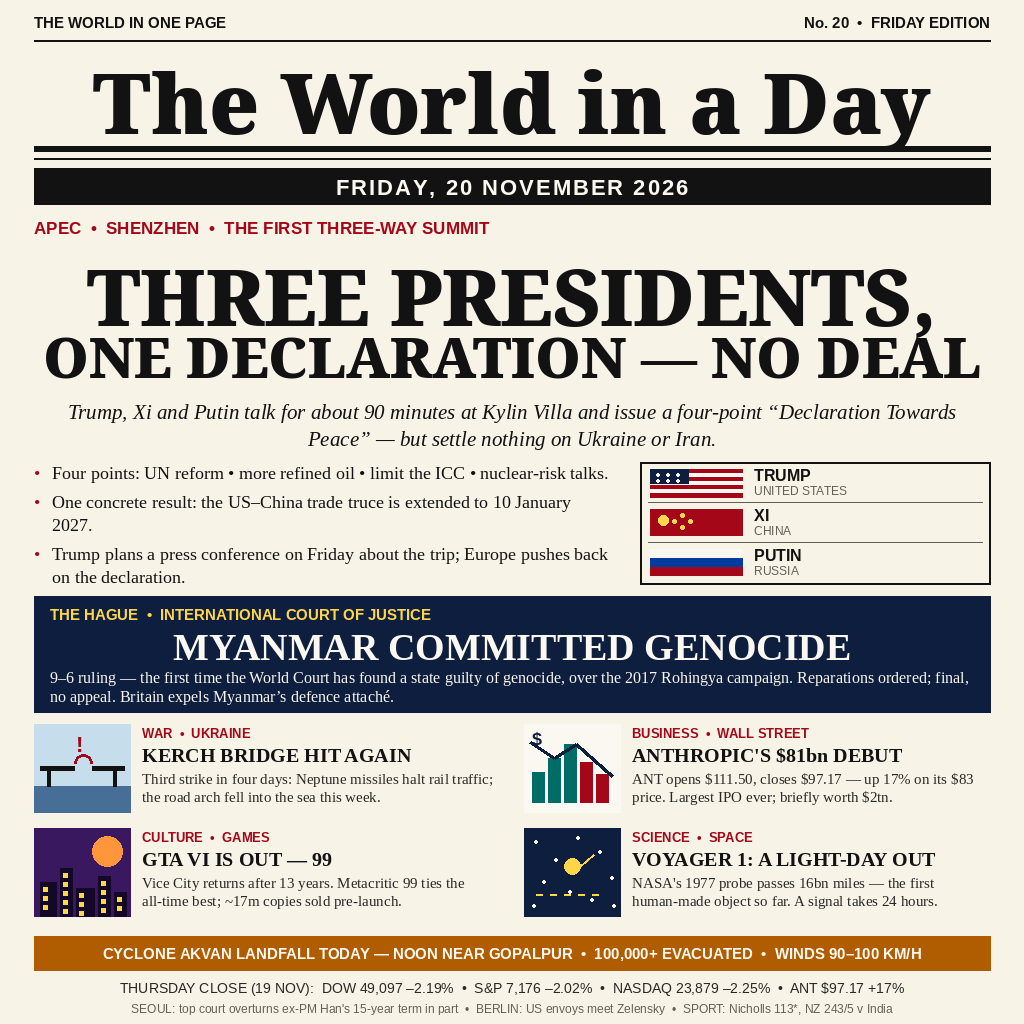
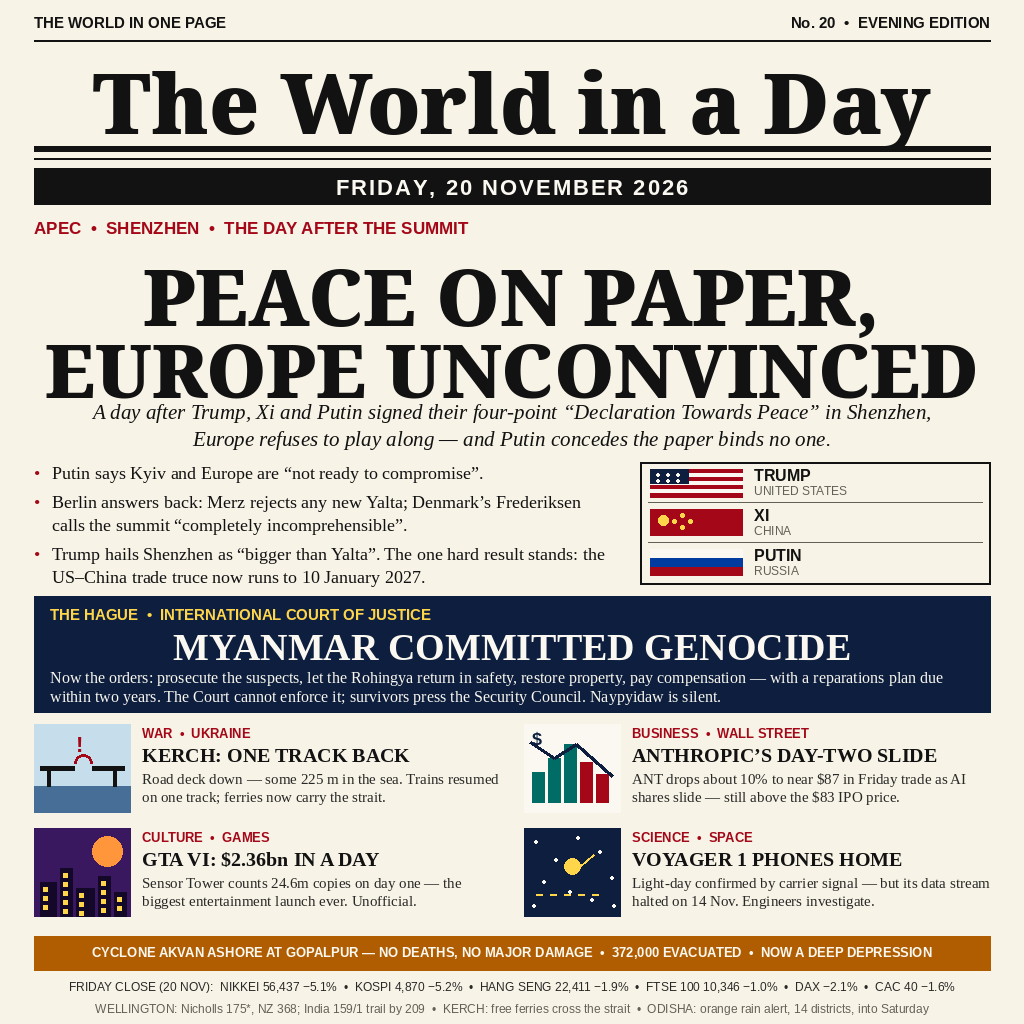
news-image-20261120: evening edition - Friday's outcomes

diff --git a/draw_page.py b/draw_page.py
@@ -1,34 +1,52 @@
 #!/usr/bin/env python3
-"""Draw the front page for Friday 20 November 2026 (build time only).
+"""Draw the EVENING front page for Friday 20 November 2026 (build time).
 
 Reads nothing from the network. Renders entry.png with Pillow and the
 system fonts, 1024x1024, deterministically: same code, same bytes.
 
-Stories, all reported 19-20 Nov 2026 and checked against live news
-searches before drawing:
-  * Shenzhen: Trump, Xi and Putin's first three-way summit ends with a
-    four-point "Declaration Towards Peace" and no deal on Ukraine/Iran;
-    the US-China trade truce is extended to 10 January 2027.
-  * The Hague: the ICJ rules 9-6 that Myanmar committed genocide
-    against the Rohingya in 2017 -- the first state ever found guilty
-    by the court; reparations ordered, no appeal. Britain expels
-    Myanmar's defence attache and seeks an urgent UN Security Council
-    meeting; The Gambia, which brought the case in 2019, hails it.
-  * Kerch Bridge: a third Ukrainian strike in four days (Neptune
-    missiles) halts rail traffic; the road arch collapsed into the
-    sea earlier in the week. Putin rejects a ceasefire.
-  * Anthropic: record $81.3bn IPO; ANT opens $111.50, closes $97.17,
-    up 17% on the $83 price; briefly valued near $2 trillion.
-  * GTA VI: out 19 Nov, Metacritic 99 (ties the all-time best),
-    about 17m copies sold before launch, per Sensor Tower.
-  * Voyager 1: first human-made object one light-day from Earth
-    (18 Nov, ~16bn miles); a signal now takes 24 hours.
-  * Cyclone Akvan: landfall due around noon today near Gopalpur,
-    Odisha; 100,000+ people evacuated; winds 90-100 km/h.
-  * Markets strip uses Thursday 19 Nov's close, labelled as such --
-    Friday's US close has not happened at build time.
-  * Sport brief: NZ 243/5 on day one vs India, Nicholls 113*,
-    Phillips 94*, Bumrah 3-52.
+Evening edition: the morning page previewed the day; this page reports
+how Friday actually ended. Every item below was checked against live
+news reporting on Friday evening (WIB) before drawing:
+
+  * Shenzhen, the day after: the four-point "Declaration Towards Peace"
+    signed by Trump, Xi and Putin draws a European backlash. Merz
+    rejects any new Yalta; Denmark's Frederiksen calls the summit
+    "completely incomprehensible"; Putin concedes the text sets no
+    ambitious goals and that nobody will be forced to comply, and says
+    Europe and Ukraine are "not ready to compromise". Trump calls the
+    summit "bigger than Yalta". The one hard result stands: the
+    US-China trade truce is extended to 10 January 2027.
+  * The Hague, the orders: after the ICJ's 9-6 finding that Myanmar
+    committed genocide against the Rohingya, the Court orders
+    investigations and prosecutions, a safe and dignified return,
+    restitution of property and compensation, with a reparations plan
+    due within two years. The Court has no enforcement arm; survivors'
+    groups press the Security Council; Myanmar has not replied.
+  * Kerch Bridge: satellite imagery shows about 225 m of the road deck
+    in the sea; trains resumed Thursday on one of the two tracks after
+    the third strike in four days; free ferries now cross the strait.
+  * Anthropic, day two: ANT slides about 10% to near $87 in Friday
+    trading as AI stocks sell off (intraday, not a close) -- still
+    above the $83 IPO price, a day after closing at $97.17.
+  * GTA VI: Sensor Tower estimates 24.58m copies and $2.36bn on day
+    one (19 Nov) -- the biggest entertainment launch ever, roughly
+    three times GTA V's first day. Take-Two has released no official
+    figures, so the numbers are labelled estimates.
+  * Voyager 1: the one-light-day milestone was confirmed on Thursday
+    by carrier signal and trajectory, but the probe's science and
+    engineering data stream stopped on 14 Nov; engineers investigate.
+  * Cyclone Akvan: landfall near Gopalpur completed by 11:20 on
+    Friday, winds 70-80 km/h gusting to 90; 372,000 people evacuated;
+    no deaths or major damage reported; the storm weakened to a deep
+    depression, with an orange rain alert for 14 districts.
+  * Markets strip uses FRIDAY 20 Nov closes only, each labelled:
+    Asia (Nikkei 56,436.65 -5.06%, Kospi 4,869.96 -5.21%, Hang Seng
+    22,410.80 -1.89%) and Europe (FTSE 100 10,346.34 -1.02%, DAX
+    -2.13%, CAC 40 -1.6%). Friday's US close happens at 04:00 WIB on
+    Saturday and is deliberately NOT used or invented.
+  * Sport, day two at Wellington: New Zealand 368 (Nicholls 175*,
+    Phillips 118, Bumrah 4-92); India 159/1 at stumps (Jaiswal 85,
+    Rahul 52*), trailing by 209.
 """
 import os
 
@@ -134,7 +152,7 @@ canvas = ImageDraw.Draw(img)
 # ---------------------------------------------------------------- top line
 tiny = load(SANSB, 15)
 canvas.text((M, 14), "THE WORLD IN ONE PAGE", font=tiny, fill=INK)
-right = "No. 20  \u2022  FRIDAY EDITION"
+right = "No. 20  \u2022  EVENING EDITION"
 canvas.text((R - canvas.textlength(right, font=tiny), 14), right,
             font=tiny, fill=INK)
 rule(40, 2)
@@ -151,27 +169,26 @@ centre("FRIDAY, 20 NOVEMBER 2026", load(SANSB, 22), 175, fill=CREAM,
        track=2)
 
 # ---------------------------------------------------------------- lead
-canvas.text((M, 218), "APEC  \u2022  SHENZHEN  \u2022  THE FIRST THREE-WAY SUMMIT",
+canvas.text((M, 218), "APEC  \u2022  SHENZHEN  \u2022  THE DAY AFTER THE SUMMIT",
             font=load(SANSB, 17), fill=RED)
-centre("THREE PRESIDENTS,",
-       shrink(BLACK, "THREE PRESIDENTS,", R - M, 78), 242)
-centre("ONE DECLARATION \u2014 NO DEAL",
-       shrink(BLACK, "ONE DECLARATION \u2014 NO DEAL", R - M, 78), 318)
-deck = ("Trump, Xi and Putin talk for about 90 minutes at Kylin Villa and "
-        "issue a four-point \u201cDeclaration Towards Peace\u201d \u2014 but "
-        "settle nothing on Ukraine or Iran.")
+centre("PEACE ON PAPER,",
+       shrink(BLACK, "PEACE ON PAPER,", R - M, 78), 242)
+centre("EUROPE UNCONVINCED",
+       shrink(BLACK, "EUROPE UNCONVINCED", R - M, 78), 318)
+deck = ("A day after Trump, Xi and Putin signed their four-point "
+        "\u201cDeclaration Towards Peace\u201d in Shenzhen, Europe refuses "
+        "to play along \u2014 and Putin concedes the paper binds no one.")
 para(deck, load(ITAL, 21), M + 30, 400, R - M - 60, 27, align_left=False)
 
 # lead lower half: bullets left, three flags right
 ly = 462
 bullet_f = load(REG, 18)
 bullets = [
-    "Four points: UN reform \u2022 more refined oil \u2022 limit the ICC "
-    "\u2022 nuclear-risk talks.",
-    "One concrete result: the US\u2013China trade truce is extended "
-    "to 10 January 2027.",
-    "Trump plans a press conference on Friday about the trip; "
-    "Europe pushes back on the declaration.",
+    "Putin says Kyiv and Europe are \u201cnot ready to compromise\u201d.",
+    "Berlin answers back: Merz rejects any new Yalta; Denmark\u2019s "
+    "Frederiksen calls the summit \u201ccompletely incomprehensible\u201d.",
+    "Trump hails Shenzhen as \u201cbigger than Yalta\u201d. The one hard "
+    "result stands: the US\u2013China trade truce now runs to 10 January 2027.",
 ]
 for b in bullets:
     canvas.text((M, ly), "\u2022", font=bullet_f, fill=RED)
@@ -225,10 +242,10 @@ canvas.text((M + 16, iy0 + 10), "THE HAGUE  \u2022  INTERNATIONAL COURT OF JUSTI
 centre("MYANMAR COMMITTED GENOCIDE",
        shrink(BOLD, "MYANMAR COMMITTED GENOCIDE", R - M - 32, 38),
        iy0 + 30, fill=CREAM)
-icj = ("9\u20136 ruling \u2014 the first time the World Court has found a "
-       "state guilty of genocide, over the 2017 Rohingya campaign. "
-       "Reparations ordered; final, no appeal. Britain expels Myanmar\u2019s "
-       "defence attach\u00e9.")
+icj = ("Now the orders: prosecute the suspects, let the Rohingya return "
+       "in safety, restore property, pay compensation \u2014 with a "
+       "reparations plan due within two years. The Court cannot enforce "
+       "it; survivors press the Security Council. Naypyidaw is silent.")
 para(icj, load(REG, 16), M + 16, iy0 + 72, R - M - 32, 19, fill=CREAM)
 
 # ---------------------------------------------------------------- picture grid
@@ -302,41 +319,42 @@ def icon_voyager(x0, y0):
     canvas.line([(x0 + 56, y0 + 38), (x0 + 70, y0 + 26)], fill=GOLD, width=2)
 
 
-cell(M, gy, "WAR  \u2022  UKRAINE", "KERCH BRIDGE HIT AGAIN",
-     "Third strike in four days: Neptune missiles halt rail traffic; "
-     "the road arch fell into the sea this week.", icon_kerch)
+cell(M, gy, "WAR  \u2022  UKRAINE", "KERCH: ONE TRACK BACK",
+     "Road deck down \u2014 some 225 m in the sea. Trains resumed on "
+     "one track; ferries now carry the strait.", icon_kerch)
 cell(M + col_w + 24, gy, "BUSINESS  \u2022  WALL STREET",
-     "ANTHROPIC'S $81bn DEBUT",
-     "ANT opens $111.50, closes $97.17 \u2014 up 17% on its $83 price. "
-     "Largest IPO ever; briefly worth $2tn.", icon_anthropic)
-cell(M, gy + cell_h + 8, "CULTURE  \u2022  GAMES", "GTA VI IS OUT \u2014 99",
-     "Vice City returns after 13 years. Metacritic 99 ties the "
-     "all-time best; ~17m copies sold pre-launch.", icon_gta)
+     "ANTHROPIC\u2019S DAY-TWO SLIDE",
+     "ANT drops about 10% to near $87 in Friday trade as AI shares "
+     "slide \u2014 still above the $83 IPO price.", icon_anthropic)
+cell(M, gy + cell_h + 8, "CULTURE  \u2022  GAMES", "GTA VI: $2.36bn IN A DAY",
+     "Sensor Tower counts 24.6m copies on day one \u2014 the biggest "
+     "entertainment launch ever. Unofficial.", icon_gta)
 cell(M + col_w + 24, gy + cell_h + 8, "SCIENCE  \u2022  SPACE",
-     "VOYAGER 1: A LIGHT-DAY OUT",
-     "NASA's 1977 probe passes 16bn miles \u2014 the first human-made "
-     "object so far. A signal takes 24 hours.", icon_voyager)
+     "VOYAGER 1 PHONES HOME",
+     "Light-day confirmed by carrier signal \u2014 but its data stream "
+     "halted on 14 Nov. Engineers investigate.", icon_voyager)
 
 # ---------------------------------------------------------------- Akvan strip
 ay = 936
 canvas.rectangle([M, ay, R, ay + 34], fill=AMBER)
-centre("CYCLONE AKVAN LANDFALL TODAY \u2014 NOON NEAR GOPALPUR  \u2022  "
-       "100,000+ EVACUATED  \u2022  WINDS 90\u2013100 KM/H",
-       load(SANSB, 15), ay + 9, fill=CREAM)
+akvan = ("CYCLONE AKVAN ASHORE AT GOPALPUR \u2014 NO DEATHS, NO MAJOR DAMAGE  "
+         "\u2022  372,000 EVACUATED  \u2022  NOW A DEEP DEPRESSION")
+centre(akvan, shrink(SANSB, akvan, R - M, 15, floor=11), ay + 9, fill=CREAM)
 
 # ---------------------------------------------------------------- markets
 my = 980
-tick = ("THURSDAY CLOSE (19 NOV):  DOW 49,097 \u20132.19%  \u2022  "
-        "S&P 7,176 \u20132.02%  \u2022  NASDAQ 23,879 \u20132.25%  \u2022  "
-        "ANT $97.17 +17%")
-centre(tick, load(SANS, 14), my, fill=FAINT)
+tick = ("FRIDAY CLOSE (20 NOV):  NIKKEI 56,437 \u22125.1%  \u2022  "
+        "KOSPI 4,870 \u22125.2%  \u2022  HANG SENG 22,411 \u22121.9%  "
+        "\u2022  FTSE 100 10,346 \u22121.0%  \u2022  DAX \u22122.1%  "
+        "\u2022  CAC 40 \u22121.6%")
+centre(tick, shrink(SANS, tick, R - M, 14), my, fill=FAINT)
 
 # ---------------------------------------------------------------- footer briefs
 fy = 1002
-brief = ("SEOUL: top court overturns ex-PM Han's 15-year term in part  "
-         "\u2022  BERLIN: US envoys meet Zelensky  \u2022  SPORT: Nicholls "
-         "113*, NZ 243/5 v India")
-centre(brief, load(SANS, 12), fy, fill=GREY)
+brief = ("WELLINGTON: Nicholls 175*, NZ 368; India 159/1 trail by 209  "
+         "\u2022  KERCH: free ferries cross the strait  \u2022  ODISHA: "
+         "orange rain alert, 14 districts, into Saturday")
+centre(brief, shrink(SANS, brief, R - M, 12), fy, fill=GREY)
 
 img.save(OUT, optimize=True)
 print("saved", OUT)
